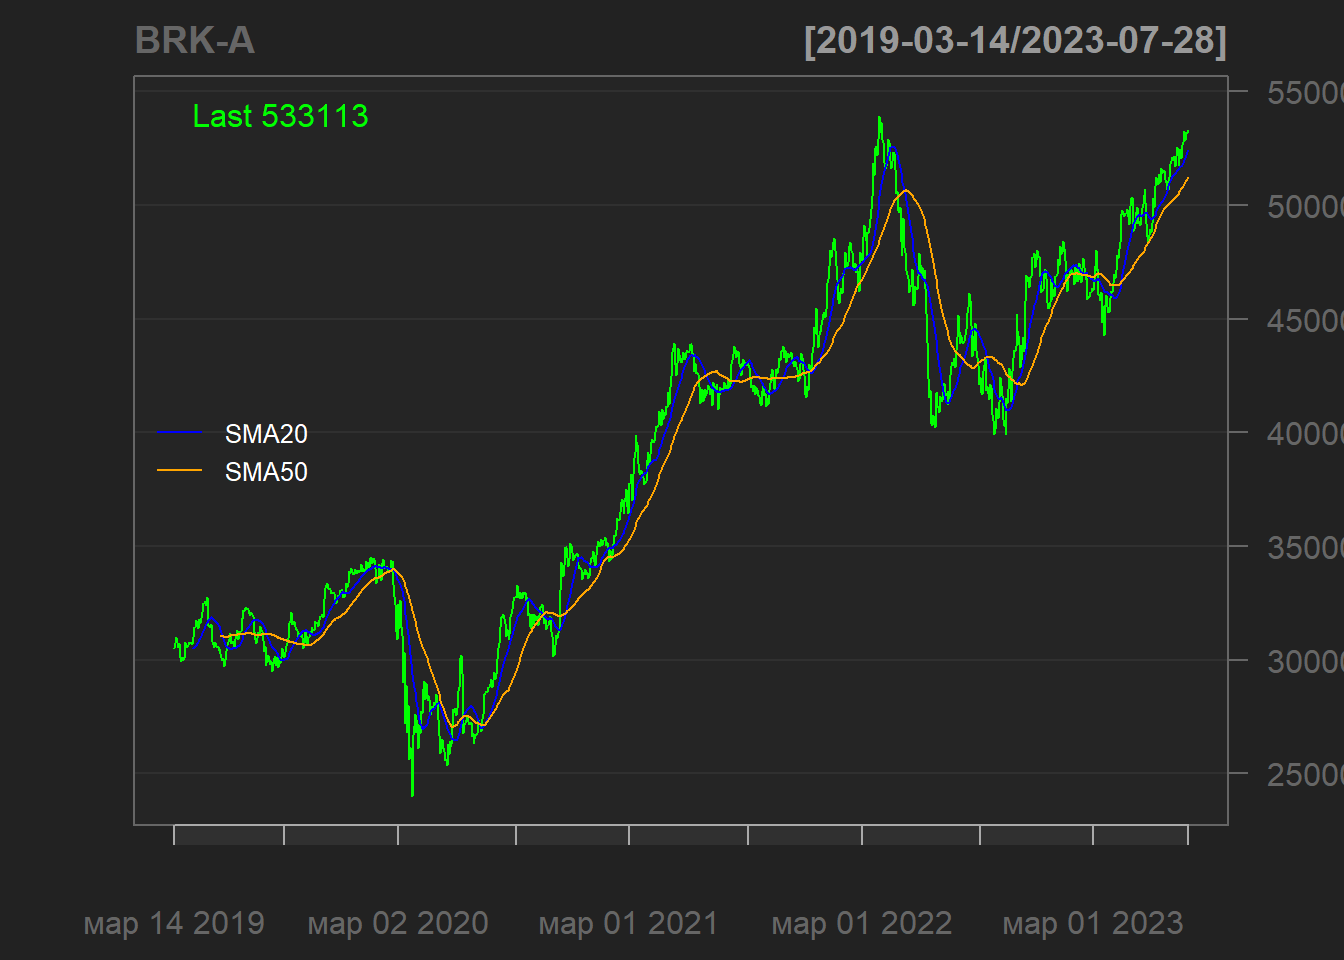
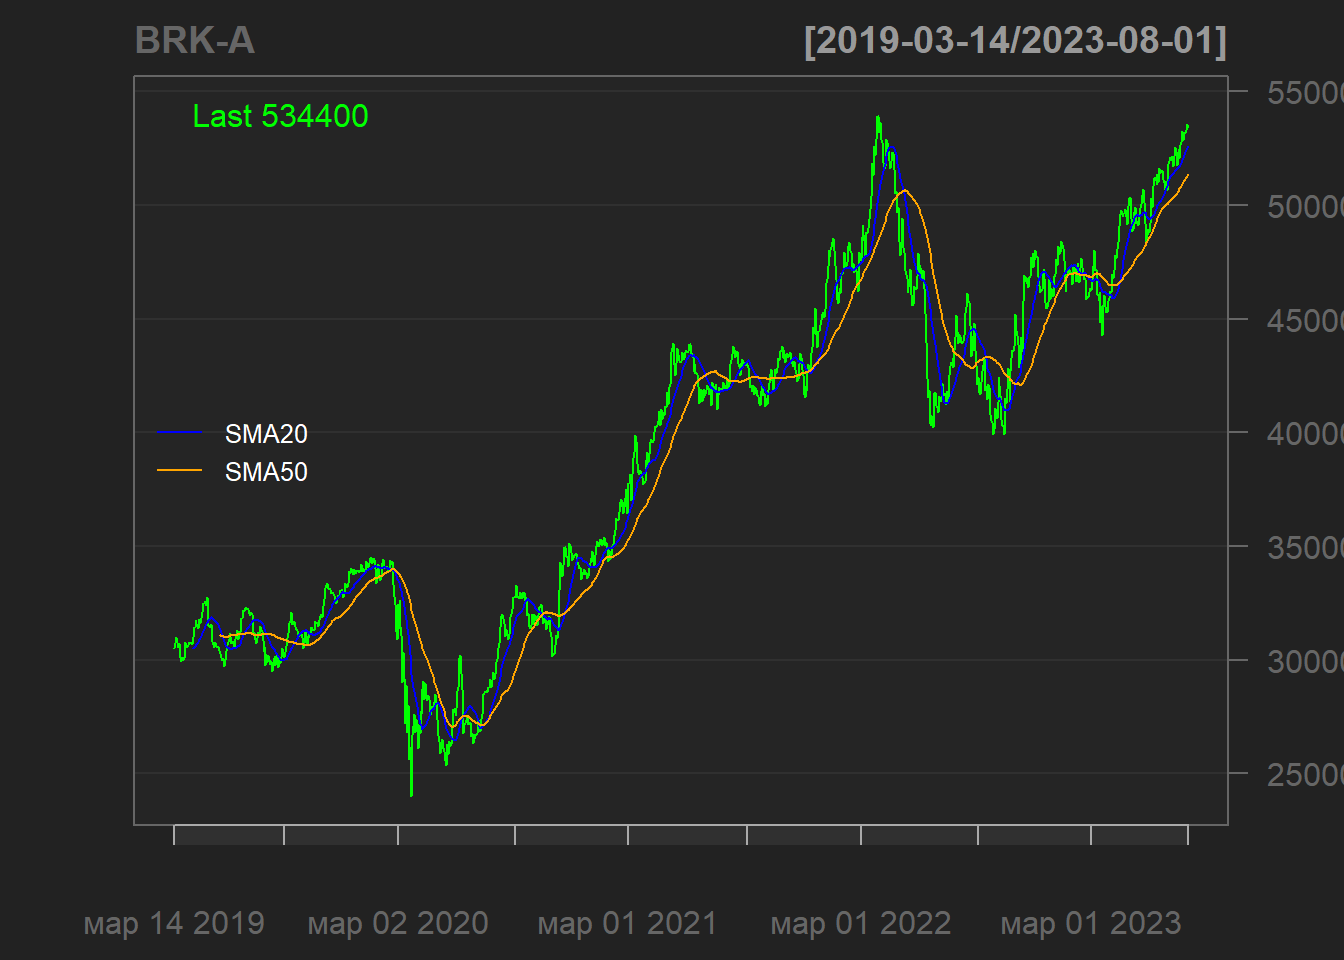
bug

diff --git a/docs/results.html b/docs/results.html
@@ -289,56 +289,58 @@ code span.wa { color: #60a0b0; font-weight: bold; font-style: italic; } /* Warni
 <span id="cb7-15"><a href="#cb7-15" aria-hidden="true" tabindex="-1"></a>    STOCKS[[st]]<span class="sc">$</span>sma_ts[<span class="fu">is.na</span>(STOCKS[[st]]<span class="sc">$</span>sma_ts)] <span class="ot">&lt;-</span> <span class="dv">0</span></span>
 <span id="cb7-16"><a href="#cb7-16" aria-hidden="true" tabindex="-1"></a>    STOCKS[[st]]<span class="sc">$</span>sma_strat <span class="ot">&lt;-</span> <span class="fu">ifelse</span>(STOCKS[[st]]<span class="sc">$</span>sma_ts <span class="sc">&gt;</span> <span class="dv">1</span>,<span class="dv">0</span>,<span class="dv">1</span>)</span>
 <span id="cb7-17"><a href="#cb7-17" aria-hidden="true" tabindex="-1"></a>    <span class="cf">for</span> (i <span class="cf">in</span> <span class="dv">1</span><span class="sc">:</span><span class="fu">length</span>(<span class="fu">Cl</span>(STOCKS[[st]]))) {</span>
-<span id="cb7-18"><a href="#cb7-18" aria-hidden="true" tabindex="-1"></a>        STOCKS[[st]]<span class="sc">$</span>sma_strat[i] <span class="ot">&lt;-</span> <span class="fu">ifelse</span>(STOCKS[[st]]<span class="sc">$</span>sma_ts[i] <span class="sc">==</span> <span class="dv">1</span>,<span class="dv">1</span>,<span class="fu">ifelse</span>(STOCKS[[st]]<span class="sc">$</span>sma_ts[i] <span class="sc">==</span> <span class="sc">-</span><span class="dv">1</span>,<span class="dv">0</span>,STOCKS[[st]]<span class="sc">$</span>sma_ts[i <span class="sc">-</span> <span class="dv">1</span>]))</span>
-<span id="cb7-19"><a href="#cb7-19" aria-hidden="true" tabindex="-1"></a>    }</span>
-<span id="cb7-20"><a href="#cb7-20" aria-hidden="true" tabindex="-1"></a>    STOCKS[[st]]<span class="sc">$</span>sma_strat[<span class="fu">is.na</span>(STOCKS[[st]]<span class="sc">$</span>sma_strat)] <span class="ot">&lt;-</span> <span class="dv">1</span></span>
-<span id="cb7-21"><a href="#cb7-21" aria-hidden="true" tabindex="-1"></a>    <span class="co">#sma_stratcomp &lt;- cbind(sma20, sma50, sma_ts, sma_strat)</span></span>
-<span id="cb7-22"><a href="#cb7-22" aria-hidden="true" tabindex="-1"></a>    <span class="co">#colnames(sma_stratcomp) &lt;- c('SMA(20)','SMA(50)','SMA SIGNAL','SMA POSITION')</span></span>
-<span id="cb7-23"><a href="#cb7-23" aria-hidden="true" tabindex="-1"></a>    STOCKS[[st]]<span class="sc">$</span>benchmark <span class="ot">&lt;-</span> <span class="fu">diff</span>(<span class="fu">log</span>(<span class="fu">Cl</span>(STOCKS[[st]])))</span>
-<span id="cb7-24"><a href="#cb7-24" aria-hidden="true" tabindex="-1"></a>    STOCKS[[st]]<span class="sc">$</span>sma_ret <span class="ot">&lt;-</span> STOCKS[[st]]<span class="sc">$</span>benchmark <span class="sc">*</span> STOCKS[[st]]<span class="sc">$</span>sma_strat</span>
-<span id="cb7-25"><a href="#cb7-25" aria-hidden="true" tabindex="-1"></a>    STOCKS[[st]]<span class="sc">$</span>sma_ret_commission_adj <span class="ot">&lt;-</span> <span class="fu">ifelse</span>((STOCKS[[st]]<span class="sc">$</span>sma_ts <span class="sc">==</span> <span class="dv">1</span> <span class="sc">|</span> STOCKS[[st]]<span class="sc">$</span>sma_ts <span class="sc">==</span> <span class="sc">-</span><span class="dv">1</span>) <span class="sc">&amp;</span> STOCKS[[st]]<span class="sc">$</span>sma_strat <span class="sc">!=</span> <span class="fu">Lag</span>(STOCKS[[st]]<span class="sc">$</span>sma_ts), (STOCKS[[st]]<span class="sc">$</span>benchmark <span class="sc">-</span> <span class="fl">0.05</span>) <span class="sc">*</span> STOCKS[[st]]<span class="sc">$</span>sma_strat, STOCKS[[st]]<span class="sc">$</span>benchmark<span class="sc">*</span>STOCKS[[st]]<span class="sc">$</span>sma_strat)</span>
-<span id="cb7-26"><a href="#cb7-26" aria-hidden="true" tabindex="-1"></a>    <span class="co">#STOCKS[[st]]$sma_comp &lt;- cbind(sma_ret, sma_ret_commission_adj, benchmark)</span></span>
-<span id="cb7-27"><a href="#cb7-27" aria-hidden="true" tabindex="-1"></a>    <span class="co">#colnames(sma_comp) &lt;- c('SMA','SMA Commission Adj','Benchmark')</span></span>
-<span id="cb7-28"><a href="#cb7-28" aria-hidden="true" tabindex="-1"></a>    <span class="fu">charts.PerformanceSummary</span>(STOCKS[[st]][,<span class="fu">c</span>(<span class="st">"sma_ret"</span>, <span class="st">"sma_ret_commission_adj"</span>, <span class="st">"benchmark"</span>)], </span>
-<span id="cb7-29"><a href="#cb7-29" aria-hidden="true" tabindex="-1"></a>                              <span class="at">main =</span> <span class="fu">paste</span>(<span class="st">'SMA Performance'</span>, tickers[st]))</span>
-<span id="cb7-30"><a href="#cb7-30" aria-hidden="true" tabindex="-1"></a>    <span class="fu">print</span>(<span class="fu">table.AnnualizedReturns</span>(STOCKS[[st]][,<span class="fu">c</span>(<span class="st">"sma_ret"</span>, <span class="st">"sma_ret_commission_adj"</span>, <span class="st">"benchmark"</span>)]))</span>
-<span id="cb7-31"><a href="#cb7-31" aria-hidden="true" tabindex="-1"></a>    </span>
-<span id="cb7-32"><a href="#cb7-32" aria-hidden="true" tabindex="-1"></a>}</span></code><button title="Copy to Clipboard" class="code-copy-button"><i class="bi"></i></button></pre></div>
+<span id="cb7-18"><a href="#cb7-18" aria-hidden="true" tabindex="-1"></a>        STOCKS[[st]]<span class="sc">$</span>sma_strat[i] <span class="ot">&lt;-</span> <span class="fu">ifelse</span>(STOCKS[[st]]<span class="sc">$</span>sma_ts[i] <span class="sc">==</span> <span class="dv">1</span>, <span class="dv">1</span>,</span>
+<span id="cb7-19"><a href="#cb7-19" aria-hidden="true" tabindex="-1"></a>                                            <span class="fu">ifelse</span>(STOCKS[[st]]<span class="sc">$</span>sma_ts[i] <span class="sc">==</span> <span class="sc">-</span><span class="dv">1</span>, </span>
+<span id="cb7-20"><a href="#cb7-20" aria-hidden="true" tabindex="-1"></a>                                                   <span class="dv">0</span>, STOCKS[[st]]<span class="sc">$</span>sma_strat[i <span class="sc">-</span> <span class="dv">1</span>]))</span>
+<span id="cb7-21"><a href="#cb7-21" aria-hidden="true" tabindex="-1"></a>    }</span>
+<span id="cb7-22"><a href="#cb7-22" aria-hidden="true" tabindex="-1"></a>    STOCKS[[st]]<span class="sc">$</span>sma_strat[<span class="fu">is.na</span>(STOCKS[[st]]<span class="sc">$</span>sma_strat)] <span class="ot">&lt;-</span> <span class="dv">1</span></span>
+<span id="cb7-23"><a href="#cb7-23" aria-hidden="true" tabindex="-1"></a>    <span class="co">#sma_stratcomp &lt;- cbind(sma20, sma50, sma_ts, sma_strat)</span></span>
+<span id="cb7-24"><a href="#cb7-24" aria-hidden="true" tabindex="-1"></a>    <span class="co">#colnames(sma_stratcomp) &lt;- c('SMA(20)','SMA(50)','SMA SIGNAL','SMA POSITION')</span></span>
+<span id="cb7-25"><a href="#cb7-25" aria-hidden="true" tabindex="-1"></a>    STOCKS[[st]]<span class="sc">$</span>benchmark <span class="ot">&lt;-</span> <span class="fu">diff</span>(<span class="fu">log</span>(<span class="fu">Cl</span>(STOCKS[[st]])))</span>
+<span id="cb7-26"><a href="#cb7-26" aria-hidden="true" tabindex="-1"></a>    STOCKS[[st]]<span class="sc">$</span>sma_ret <span class="ot">&lt;-</span> STOCKS[[st]]<span class="sc">$</span>benchmark <span class="sc">*</span> STOCKS[[st]]<span class="sc">$</span>sma_strat</span>
+<span id="cb7-27"><a href="#cb7-27" aria-hidden="true" tabindex="-1"></a>    STOCKS[[st]]<span class="sc">$</span>sma_ret_commission_adj <span class="ot">&lt;-</span> <span class="fu">ifelse</span>((STOCKS[[st]]<span class="sc">$</span>sma_ts <span class="sc">==</span> <span class="dv">1</span> <span class="sc">|</span> STOCKS[[st]]<span class="sc">$</span>sma_ts <span class="sc">==</span> <span class="sc">-</span><span class="dv">1</span>) <span class="sc">&amp;</span> STOCKS[[st]]<span class="sc">$</span>sma_strat <span class="sc">!=</span> <span class="fu">Lag</span>(STOCKS[[st]]<span class="sc">$</span>sma_ts), (STOCKS[[st]]<span class="sc">$</span>benchmark <span class="sc">-</span> <span class="fl">0.05</span>) <span class="sc">*</span> STOCKS[[st]]<span class="sc">$</span>sma_strat, STOCKS[[st]]<span class="sc">$</span>benchmark<span class="sc">*</span>STOCKS[[st]]<span class="sc">$</span>sma_strat)</span>
+<span id="cb7-28"><a href="#cb7-28" aria-hidden="true" tabindex="-1"></a>    <span class="co">#STOCKS[[st]]$sma_comp &lt;- cbind(sma_ret, sma_ret_commission_adj, benchmark)</span></span>
+<span id="cb7-29"><a href="#cb7-29" aria-hidden="true" tabindex="-1"></a>    <span class="co">#colnames(sma_comp) &lt;- c('SMA','SMA Commission Adj','Benchmark')</span></span>
+<span id="cb7-30"><a href="#cb7-30" aria-hidden="true" tabindex="-1"></a>    <span class="fu">charts.PerformanceSummary</span>(STOCKS[[st]][,<span class="fu">c</span>(<span class="st">"sma_ret"</span>, <span class="st">"sma_ret_commission_adj"</span>, <span class="st">"benchmark"</span>)], </span>
+<span id="cb7-31"><a href="#cb7-31" aria-hidden="true" tabindex="-1"></a>                              <span class="at">main =</span> <span class="fu">paste</span>(<span class="st">'SMA Performance'</span>, tickers[st]))</span>
+<span id="cb7-32"><a href="#cb7-32" aria-hidden="true" tabindex="-1"></a>    <span class="fu">print</span>(<span class="fu">table.AnnualizedReturns</span>(STOCKS[[st]][,<span class="fu">c</span>(<span class="st">"sma_ret"</span>, <span class="st">"sma_ret_commission_adj"</span>, <span class="st">"benchmark"</span>)]))</span>
+<span id="cb7-33"><a href="#cb7-33" aria-hidden="true" tabindex="-1"></a>    </span>
+<span id="cb7-34"><a href="#cb7-34" aria-hidden="true" tabindex="-1"></a>}</span></code><button title="Copy to Clipboard" class="code-copy-button"><i class="bi"></i></button></pre></div>
 <div class="cell-output-display">
 <p><img src="results_files/figure-html/unnamed-chunk-7-1.png" class="img-fluid" width="672"></p>
 </div>
 <div class="cell-output cell-output-stdout">
 <pre><code>#&gt;                           sma_ret sma_ret_commission_adj benchmark
-#&gt; Annualized Return          0.0047                -0.1128    0.3439
-#&gt; Annualized Std Dev         0.0652                 0.1077    0.3318
-#&gt; Annualized Sharpe (Rf=0%)  0.0719                -1.0477    1.0364</code></pre>
+#&gt; Annualized Return          0.2314                 0.0876    0.3428
+#&gt; Annualized Std Dev         0.2421                 0.2572    0.3315
+#&gt; Annualized Sharpe (Rf=0%)  0.9559                 0.3407    1.0342</code></pre>
 </div>
 <div class="cell-output-display">
 <p><img src="results_files/figure-html/unnamed-chunk-7-2.png" class="img-fluid" width="672"></p>
 </div>
 <div class="cell-output cell-output-stdout">
 <pre><code>#&gt;                           sma_ret sma_ret_commission_adj benchmark
-#&gt; Annualized Return          0.0051                -0.1020    0.1130
-#&gt; Annualized Std Dev         0.0341                 0.0844    0.2212
-#&gt; Annualized Sharpe (Rf=0%)  0.1505                -1.2086    0.5110</code></pre>
+#&gt; Annualized Return          0.0585                -0.0541    0.1126
+#&gt; Annualized Std Dev         0.1380                 0.1583    0.2210
+#&gt; Annualized Sharpe (Rf=0%)  0.4240                -0.3418    0.5097</code></pre>
 </div>
 <div class="cell-output-display">
 <p><img src="results_files/figure-html/unnamed-chunk-7-3.png" class="img-fluid" width="672"></p>
 </div>
 <div class="cell-output cell-output-stdout">
 <pre><code>#&gt;                           sma_ret sma_ret_commission_adj benchmark
-#&gt; Annualized Return          0.0645                -0.0798   -0.1735
-#&gt; Annualized Std Dev         0.0985                 0.1261    0.4539
-#&gt; Annualized Sharpe (Rf=0%)  0.6555                -0.6327   -0.3821</code></pre>
+#&gt; Annualized Return         -0.0622                -0.1891   -0.1723
+#&gt; Annualized Std Dev         0.3383                 0.3472    0.4535
+#&gt; Annualized Sharpe (Rf=0%) -0.1839                -0.5447   -0.3798</code></pre>
 </div>
 <div class="cell-output-display">
 <p><img src="results_files/figure-html/unnamed-chunk-7-4.png" class="img-fluid" width="672"></p>
 </div>
 <div class="cell-output cell-output-stdout">
 <pre><code>#&gt;                           sma_ret sma_ret_commission_adj benchmark
-#&gt; Annualized Return         -0.0010                -0.1272    0.1043
-#&gt; Annualized Std Dev         0.0216                 0.0862    0.2180
-#&gt; Annualized Sharpe (Rf=0%) -0.0443                -1.4761    0.4785</code></pre>
+#&gt; Annualized Return          0.0634                -0.0708    0.1047
+#&gt; Annualized Std Dev         0.1349                 0.1588    0.2178
+#&gt; Annualized Sharpe (Rf=0%)  0.4697                -0.4459    0.4807</code></pre>
 </div>
 </div>
 <p>STOCKS[[st]]$benchmark &lt;- diff(log(Cl(STOCKS[[st]])))</p>
